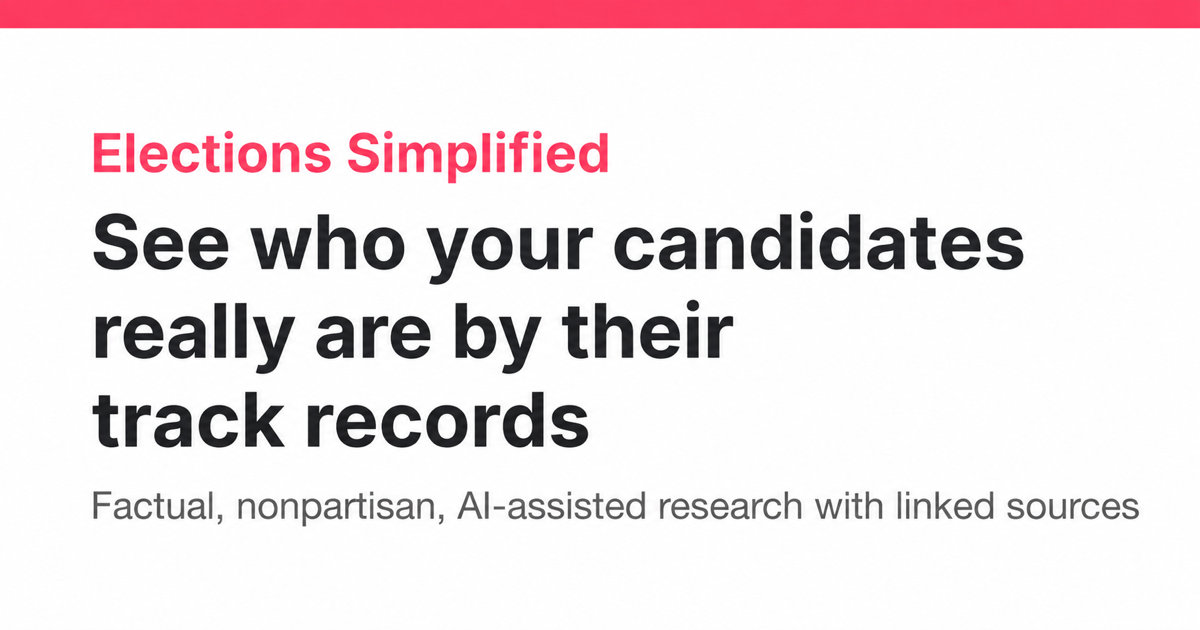
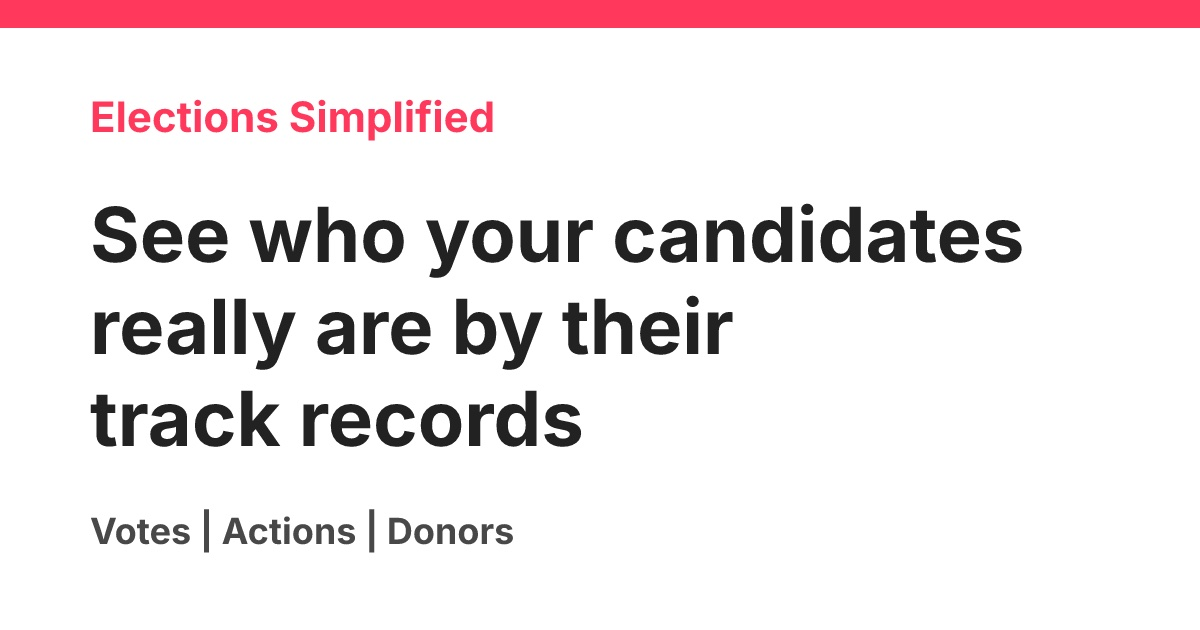
fix(frontend): share card subtitle reads "Votes | Actions | Donors"
The social preview image still carried the old "Factual, nonpartisan,
AI-assisted research with linked sources" line. Re-render it with the
front-page tagline instead, same layout (rausch bar, brand label, bold
headline). Bump the share-image version so scrapers refetch it.

diff --git a/frontend/src/lib/pageMeta.test.ts b/frontend/src/lib/pageMeta.test.ts
@@ -116,7 +116,7 @@ describe("every route that sets meta ships a share card", () => {
     expect(byProperty(descriptors, "og:description")).toBeTruthy();
     expect(byProperty(descriptors, "og:type")).toBe("website");
     // Absolute: scrapers do not resolve relative URLs.
-    expect(byProperty(descriptors, "og:image")).toBe(`${SITE_ORIGIN}/og-card.jpg?v=6`);
+    expect(byProperty(descriptors, "og:image")).toBe(`${SITE_ORIGIN}/og-card.jpg?v=7`);
     // og:url is only declared by routes that know their own path. Root omits
     // it on purpose — it is the fallback for the ballot and candidate pages,
     // and claiming their canonical URL is "/" would be a lie.
@@ -128,7 +128,7 @@ describe("every route that sets meta ships a share card", () => {
 
   it.each(ROUTE_METAS)("%s asks X for the large card rather than the thumbnail", (_name, descriptors) => {
     expect(byProperty(descriptors, "twitter:card")).toBe("summary_large_image");
-    expect(byProperty(descriptors, "twitter:image")).toBe(`${SITE_ORIGIN}/og-card.jpg?v=6`);
+    expect(byProperty(descriptors, "twitter:image")).toBe(`${SITE_ORIGIN}/og-card.jpg?v=7`);
   });
 });
 

diff --git a/frontend/src/lib/pageMeta.ts b/frontend/src/lib/pageMeta.ts
@@ -22,7 +22,7 @@ export const SITE_ORIGIN = "https://electionssimplified.com";
 // Bump the version query whenever og-card.jpg changes: scrapers (iMessage,
 // Facebook, Slack) cache the image by URL, so a same-URL replacement keeps
 // showing the old picture for weeks.
-const SHARE_IMAGE = `${SITE_ORIGIN}/og-card.jpg?v=6`;
+const SHARE_IMAGE = `${SITE_ORIGIN}/og-card.jpg?v=7`;
 const SHARE_IMAGE_ALT = `${APP_NAME} — See who your candidates really are by their track records`;
 
 export const DEFAULT_DESCRIPTION =
